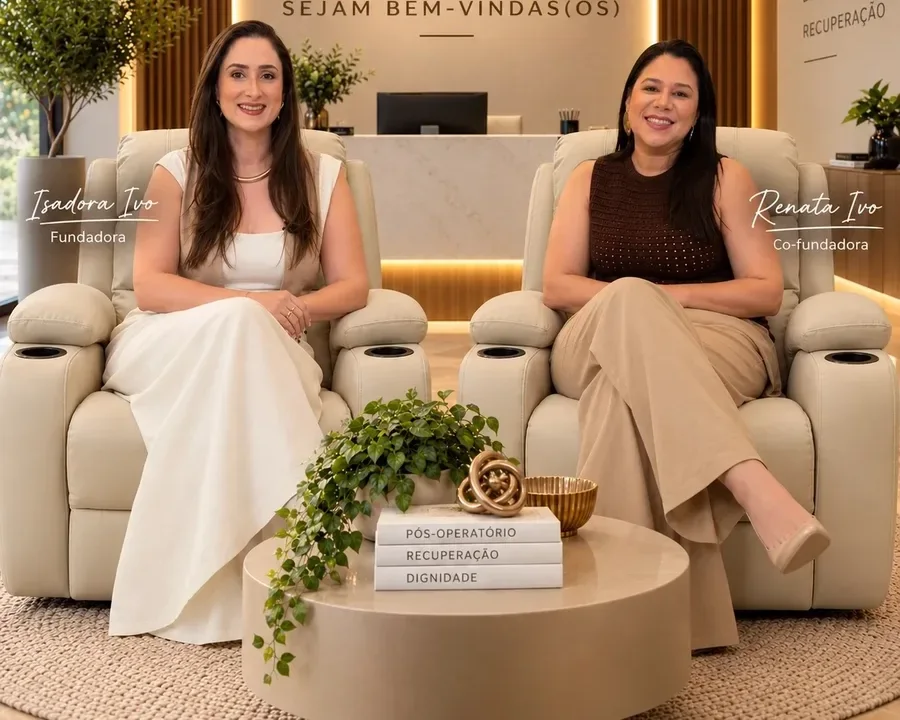
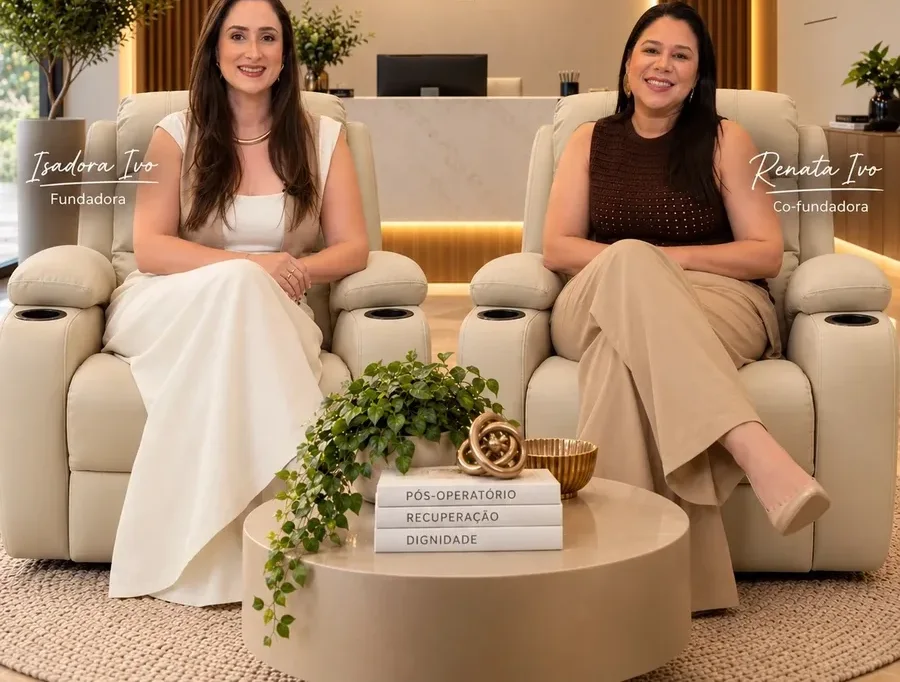
style: cadastro de usuário com retratos redondos das proprietárias; capa do administrador mais acima

diff --git a/src/features/profile/ProfilePage.tsx b/src/features/profile/ProfilePage.tsx
@@ -3,7 +3,8 @@ import { NotificationToggle } from './NotificationToggle'
 import { ArrowRight, ChevronRight, KeyRound, Mail, Plus, Sparkles, UserRound, Users, X } from 'lucide-react'
 import { FormIntro } from '../../components/FormIntro'
 import owners from '../../assets/fundadoras-capa.webp'
-import founders from '../../assets/cadastro-equipe.webp'
+import renata from '../../assets/renata.webp'
+import isadora from '../../assets/isadora.webp'
 import { api, type AccessLevel, type Account, type Branch, type BranchInput, type Municipality, type TeamMember, type TeamMemberInput } from '../../api'
 import { BranchModal } from '../branches/BranchModal'
 import { branchLabel, onlyOfficialBranches } from '../../utils/branches'
@@ -283,7 +284,7 @@ function MemberDialog({ credentials, member, areas, branches, onAreas, onClose, 
 
   return <Modal title={member ? 'Editar usuário' : 'Cadastrar usuário'} eyebrow="EQUIPE" onClose={onClose} busy={busy}>
     <form className="modal-form" onSubmit={event => void submit(event)}>
-      {!member && <FormIntro icon={<Sparkles size={13} />} title="Boas-vindas à Pós Leve" image={founders}>
+      {!member && <FormIntro icon={<Sparkles size={13} />} title="Boas-vindas à Pós Leve" portraits={[renata, isadora]}>
         Preencha os dados de quem vai fazer parte do time. Ela entra no painel e no app com o e-mail e a senha que você criar aqui.</FormIntro>}
       <label>Nome completo<input value={form.name} onChange={event => set('name', event.target.value)} maxLength={120} required autoFocus placeholder="Ex.: Isadora Ivo" /></label>
       <label>E-mail<input type="email" value={form.email} onChange={event => set('email', event.target.value)} required autoComplete="off" placeholder="nome@poslevepoltronas.com.br" /></label>

diff --git a/src/components/FormIntro.tsx b/src/components/FormIntro.tsx
@@ -5,9 +5,17 @@ import './FormIntro.css'
  * Boas-vindas no topo de um cadastro novo (igual ao app): ícone, título e uma frase do que fazer. Com `image`, vira
  * um banner com a foto ao fundo e o texto por cima (eyebrow e signature aparecem no banner).
  */
-export function FormIntro({ icon, title, image, eyebrow, signature, children }: {
-  icon: ReactNode; title: string; image?: string; eyebrow?: string; signature?: string; children: ReactNode
+export function FormIntro({ icon, title, image, eyebrow, signature, portraits, children }: {
+  icon: ReactNode; title: string; image?: string; eyebrow?: string; signature?: string; portraits?: string[]; children: ReactNode
 }) {
+  if (portraits) {
+    // Retratos redondos lado a lado, um encaixado no outro, com o recado de boas-vindas embaixo (igual ao app).
+    return <div className="form-welcome">
+      <div className="form-welcome-portraits">{portraits.map(src => <img key={src} src={src} alt="" />)}</div>
+      <strong>{title}</strong>
+      <p>{children}</p>
+    </div>
+  }
   if (image) {
     return <div className="form-banner" style={{ backgroundImage: `url(${image})` }}>
       <div className="form-banner-body">

diff --git a/src/components/FormIntro.css b/src/components/FormIntro.css
@@ -35,3 +35,13 @@
 /* Foto deitada das duas (cadastro de usuário): banner mais baixo, clareando a partir do meio. */
 .form-banner { min-height: 340px; background-position: center top; }
 .form-banner::before { background: linear-gradient(180deg, rgba(255, 255, 255, 0) 56%, rgba(255, 255, 255, 0.85) 76%, #fff 100%); }
+
+/* Boas-vindas com os retratos das proprietárias (cadastro de usuário). */
+.form-welcome { display: grid; justify-items: center; gap: 6px; padding: 26px 20px 20px; border: 1px solid #e7e6e2; border-radius: 16px;
+  background: linear-gradient(180deg, #e6f4f5 0%, #fff 100%); text-align: center; }
+.form-welcome-portraits { display: flex; margin-bottom: 6px; }
+.form-welcome-portraits img { width: 96px; height: 96px; border: 4px solid #fff; border-radius: 50%; object-fit: cover; background: #cdeef0;
+  box-shadow: 0 6px 16px rgba(13, 52, 56, 0.12); }
+.form-welcome-portraits img + img { margin-left: -16px; }
+.form-welcome strong { color: #127a84; font-size: 22px; letter-spacing: -0.02em; }
+.form-welcome p { margin: 0; color: #2a3236; font-size: 14.5px; line-height: 1.45; }

diff --git a/src/features/profile/profile.css b/src/features/profile/profile.css
@@ -42,3 +42,6 @@
 /* Cabeças perto do topo e cartão mais acima. */
 .profile-cover { aspect-ratio: auto; height: 300px; background-position: center top; }
 .profile-cover { height: 270px; }
+/* Cartão começa na altura dos joelhos. */
+.profile-cover { height: 190px; }
+.profile-cover::after { background: linear-gradient(180deg, rgba(255, 255, 255, 0) 55%, #fff 100%); }
